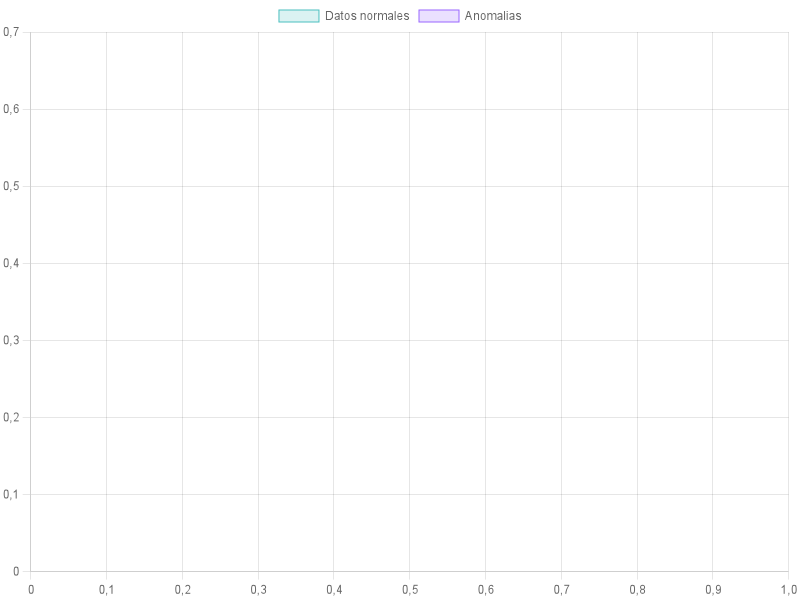
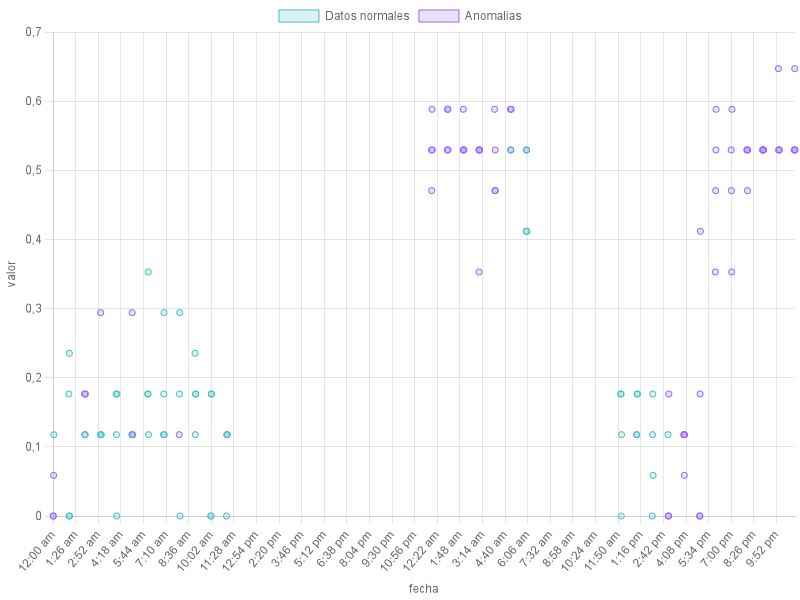
avances representar lineas

diff --git a/isolation_forest/src/index.js b/isolation_forest/src/index.js
@@ -6,6 +6,8 @@ const {Chart, registerables} = require('chart.js');
 const fs = require('fs');
 const { values } = require('lodash');
 
+require('chartjs-adapter-moment');
+const moment = require('moment');
 // Registrar todos los componentes necesarios
 Chart.register(...registerables);
 
@@ -44,12 +46,19 @@ var normal = [];
 
 //filtramos los anomalyScore mayores a 0.5
 scores.forEach( (element, index) =>{
-    if(element > 0.5) anomalies.push( 
-        {"valor":features[index][2], 
-        "date": new Date( labels[index][0],labels[index][1],labels[index][2],labels[index][3],labels[index][4] ).toISOString().split('T')[0] } );
-    else normal.push( 
-        {"valor":features[index][2], 
-        "date": new Date( labels[index][0],labels[index][1],labels[index][2],labels[index][3],labels[index][4] ).toISOString().split('T')[0] } );
+    if(element > 0.5){  
+        
+        let value = features[index][2];
+        date = new Date( labels[index][0],labels[index][1],labels[index][2],labels[index][3],labels[index][4]);
+        date = moment(date).format('YYYY-MM-DD HH:mm')
+        anomalies.push({"valor": value, "date": date});
+    } 
+    else {
+        let value = features[index][2];
+        date = new Date( labels[index][0],labels[index][1],labels[index][2],labels[index][3],labels[index][4]);
+        date = moment(date).format('YYYY-MM-DD HH:mm')
+        normal.push({"valor": value, "date": date});
+    }
 })
 
 //ordenamos de mayor a menos valor de anomalia
@@ -62,8 +71,6 @@ scores.forEach( (element, index) =>{
 
 var dataNormal = [];
 var dataAnomalies = [];
-
-var fechas = [];
 
 anomalies.forEach( element => {
     dataAnomalies.push( {x: element.date, y: element.valor } )
@@ -101,11 +108,21 @@ const chart = new Chart(ctx, {
     },
     options: {
         scales: {
-            y: {
+            x: {
                 type: 'time',
                 time: {
-                    unit: 'day', // Otras unidades: 'month', 'year', etc.
-                    tooltipFormat: 'll'
+                    unit: 'minute', // Otras unidades: 'month', 'year', etc.
+                    tooltipFormat: 'lll'
+                },
+                title:{
+                    display: true,
+                    text: 'fecha'
+                }
+            },
+            y: {
+                title: {
+                    display: true,
+                    text: 'valor'
                 }
             }
         }
